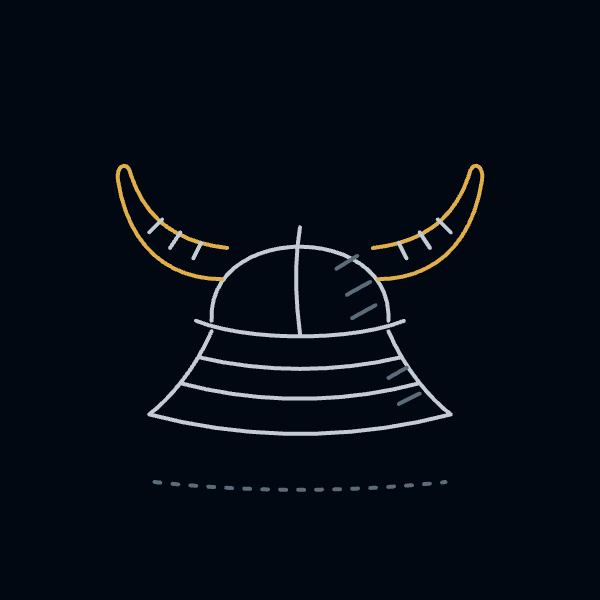
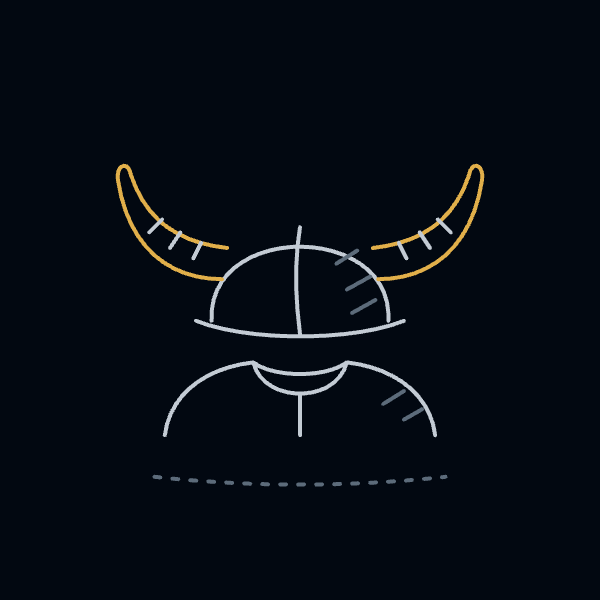
fix(power): apply the round-one review notes on the crews
Buffalo's name is said early from episode 465 rather than a common word,
Atmos's later Doflamingo card is in the past, his drawing drops the neck
guard the story never shows, and the gate pages are pinned.

Claude-Session: https://claude.ai/code/session_018XDoqAo1BDxJJcRKx4FSjm

Changed region(s): [[0.24, 0.54, 0.75, 0.75], [0.24, 0.78, 0.75, 0.84], [0.54, 0.42, 0.63, 0.54]]

diff --git a/src/data/series/one-piece/art/summit-war.ts b/src/data/series/one-piece/art/summit-war.ts
@@ -2154,9 +2154,9 @@ export const summitWarArt = {
     shadow(90, 186, 62),
   ],
 
-  // His helmet, the dome with its ridge, the flared neck guard in plates,
-  // the far side hatched, and the two buffalo horns in his colour. He wears
-  // it when he goes at Doflamingo in episode 465.
+  // His horned helmet, the dome with its ridge and the far side hatched, the
+  // two buffalo horns in his colour, over the shoulders of his sleeveless
+  // armour. He wears both when he goes at Doflamingo in episode 465.
   'atmos': [
     { d: 'M46 108 C44 70 116 70 114 108' },
     { d: 'M40 108 C60 116 100 116 120 108' },
@@ -2166,17 +2166,14 @@ export const summitWarArt = {
     { d: ATMOS_RIDGES, role: 'soft', transform: MIRROR },
     { d: 'M80 72 C78 84 78 98 80 113', role: 'soft' },
     {
-      d: 'M46 112 C40 126 30 138 22 144 C60 154 100 154 138 144 C130 138 120 126 114 112',
+      d: 'M28 152 C30 136 44 126 62 124 C70 130 90 130 98 124 C116 126 130 136 132 152',
     },
+    { d: 'M62 124 C66 140 94 140 98 124 M80 136 V152', role: 'soft' },
     {
-      d: 'M34 132 C64 140 96 140 126 132 M41 122 C66 128 94 128 119 122',
-      role: 'soft',
-    },
-    {
-      d: 'M94 88 l8 -5 M98 98 l9 -5 M100 107 l9 -5 M118 140 l8 -4 M114 130 l7 -4',
+      d: 'M94 86 l8 -5 M98 96 l9 -5 M100 105 l9 -5 M112 140 l8 -5 M120 146 l7 -4',
       role: 'ambient',
     },
-    shadow(80, 170, 56),
+    shadow(80, 168, 56),
   ],
 
   // His huge sword, a long curved blade, lying on the frozen bay, the cup

diff --git a/src/data/series/one-piece/records/summit-war.supporting.relationships.ts b/src/data/series/one-piece/records/summit-war.supporting.relationships.ts
@@ -1680,6 +1680,17 @@ const links = {
       it: 'Doflamingo prende il controllo del corpo di Atomos e rivolge le sue spade contro i suoi uomini.',
     },
   },
+  atmosDonquixoteDoflamingo2: {
+    character: 'donquixote-doflamingo',
+    type: {
+      en: 'Warlord who once controlled him',
+      it: 'Membro della Flotta dei Sette che lo ha controllato',
+    },
+    summary: {
+      en: 'Doflamingo took control of Atmos’s body in the bay and turned his swords on his own men.',
+      it: 'Nella baia Doflamingo ha preso il controllo del corpo di Atomos e ha rivolto le sue spade contro i suoi uomini.',
+    },
+  },
   atmosEdwardNewgate2: {
     character: 'edward-newgate',
     type: { en: 'Former captain', it: 'Ex capitano' },
@@ -2825,7 +2836,7 @@ export const supportingRelationships = {
     {
       episode: 485,
       chapter: 576,
-      value: [links.atmosEdwardNewgate2, links.atmosDonquixoteDoflamingo],
+      value: [links.atmosEdwardNewgate2, links.atmosDonquixoteDoflamingo2],
     },
   ],
   'salome': [{ episode: 484, chapter: 575, value: [links.salomeBoaHancock] }],

diff --git a/src/data/series/one-piece/records/dressrosa.ts b/src/data/series/one-piece/records/dressrosa.ts
@@ -183,15 +183,14 @@ export const dressrosa: OnePieceSaga = {
       },
       visual: { art: 'baby-5', tint: 'wine' },
     },
-    // His name is an ordinary word: Atmos's epithet, Water Buffalo, says it
-    // at episode 465.
+    // Atmos's epithet, Water Buffalo, says his name at episode 465.
     {
       id: 'buffalo',
       kind: 'character',
       revealedAtEpisode: 618,
       revealedAtChapter: 692,
       name: { it: 'Buffalo', en: 'Buffalo' },
-      commonWord: true,
+      nameSaidAt: 465,
       summary: {
         it: 'Un uomo tondo come una palla che si mette a girare su sé stesso come un’elica e decolla portandosi dietro la compagna di viaggio.',
         en: 'A man as round as a ball who spins himself like a propeller and takes off, carrying his travelling companion along with him.',
